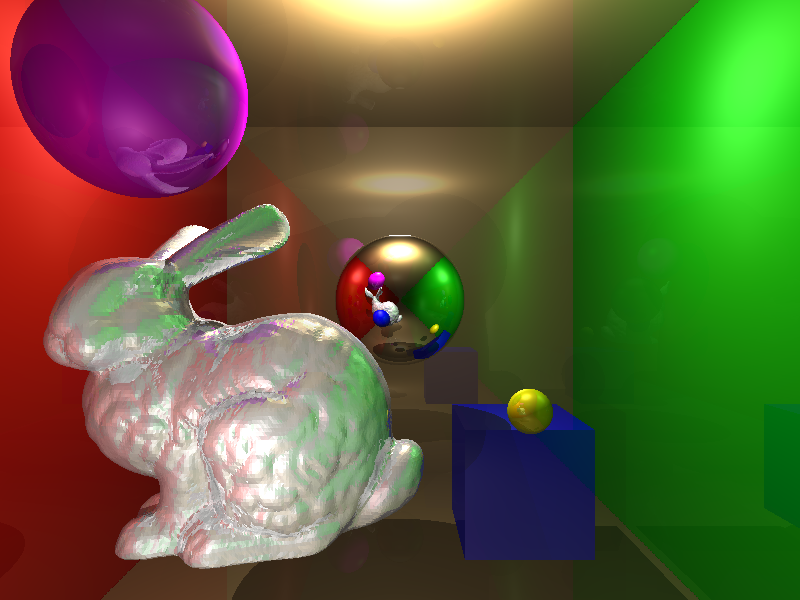
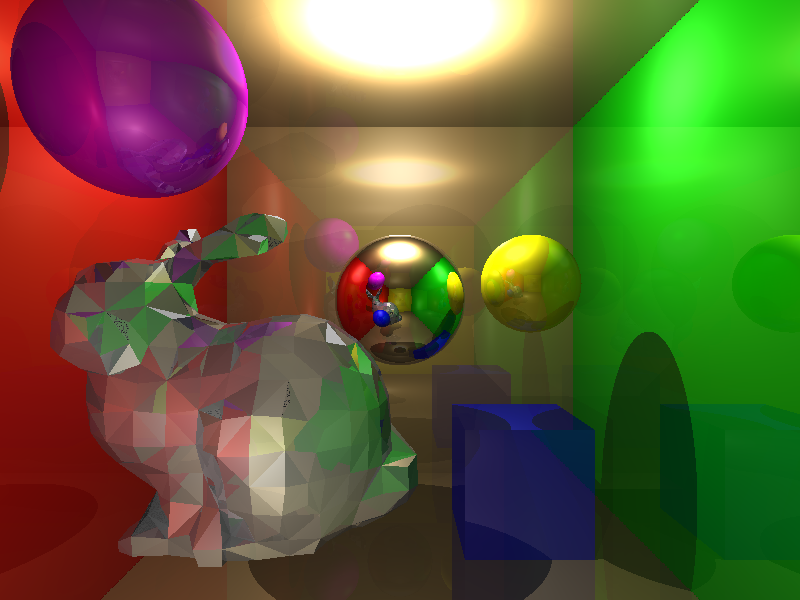
new scene + Plane constructor

diff --git a/raytracer.cpp b/raytracer.cpp
@@ -358,7 +358,7 @@ struct Material {
     double ks;  // specular reflectance
     double specRefExp; // specular-reflection exponent
 
-    Material(const Color& color, double ka=0.15, double kd=0.7, double ks=0.3, double specRefExp=8)
+    Material(const Color& color, double ka=0.2, double kd=0.7, double ks=0.2, double specRefExp=8)
             : color(color), ka(ka), kd(kd), ks(ks), specRefExp(specRefExp) {}
     Material() : color{} {}
 };
@@ -393,6 +393,17 @@ struct Plane : public Object {
         this->b = pn[1];
         this->c = pn[2];
     }
+
+    Plane(double a, double b, double c, double d, const Material& material)
+            : a(a), b(b), c(c), d(d), Object(material) {
+        // normalize normal vector
+        Vec3d pn{a, b, c};
+        pn.normalize();
+        this->a = pn[0];
+        this->b = pn[1];
+        this->c = pn[2];
+    }
+
 
     Plane(Vec3d normal, double dist, const Color& color) : d{dist}, Object{color} {
         normal.normalize(); // make sure normal is normalized
@@ -568,7 +579,7 @@ struct Model : Object {
     static shared_ptr<Model> load_ply(const string& fname) {
         cout << "... loading model: " << fname << endl;
         shared_ptr<Model> model{make_shared<Model>()};
-        Color color{Color::white()};
+        Color color{Color::gray()};
 
         ifstream ifs{fname};
         if (!ifs.is_open())
@@ -1066,15 +1077,15 @@ colorize_image_tile(cv::Mat img, int num, int x_start, int y_start, int pW, int 
 
 void
 create_scene(vector<shared_ptr<Object>>& objects, vector<Light>& lights) {
-    lights.emplace_back(Light{Vec3d{0, 3, -7.5}, Color::white() * 20});
+    lights.emplace_back(Light{Vec3d{0, 3, -7.5}, Color::white() * 3});
 //    lights.emplace_back(Light{Vec3d{0, 8, -9}, Color::white()*0.5});
-    lights.emplace_back(Light{Vec3d{-1, -1, -1}, Color::white() * 7});
+    lights.emplace_back(Light{Vec3d{-1, -1, -1}, Color::white() * 10});
 //    lights.emplace_back(Light{Vec3d{5, -5, -2}, Color::white()*0.5});
 //    lights.emplace_back(Light{Vec{-30,-20,1}});
 
     objects.push_back(make_shared<Sphere>(Vec3d{0, 0, -8}, 1, Material(Color::red(), 0, 0, 1, 16)));
 //    objects.push_back(make_shared<Sphere>(Vec{10,0,-20}, 5, scolor));
-    objects.push_back(make_shared<Sphere>(Vec3d{1.75, -1.5, -7}, 0.3, Color{1, 1, 0}));
+    objects.push_back(make_shared<Sphere>(Vec3d{2, 0.25, -8}, 0.75, Material{Color{1, 1, 0}, 0.2, 0.7, 0}));
 
     objects.push_back(make_shared<Sphere>(Vec3d{-1, -1, -6}, 0.5, Color::blue()));
     objects.push_back(make_shared<Sphere>(Vec3d{80, -6, -150}, 5, Color{0, 0, 1}));
@@ -1109,10 +1120,10 @@ create_scene(vector<shared_ptr<Object>>& objects, vector<Light>& lights) {
 
 
     // planes
-    const int box_len{5};
+    const int box_len{4};
     // back
     const Color wall_color{192.0 / 255, 155.0 / 255, 94.0 / 255};
-    objects.push_back(make_shared<Plane>(0, 0, 1, box_len + 10, wall_color));
+    objects.push_back(make_shared<Plane>(0, 0, 1, box_len + 8, wall_color));
     // left
     objects.push_back(make_shared<Plane>(1, 0, 0, box_len, Color::red()));
     // right
@@ -1121,6 +1132,8 @@ create_scene(vector<shared_ptr<Object>>& objects, vector<Light>& lights) {
     objects.push_back(make_shared<Plane>(0, 1, 0, box_len, wall_color));
     // top
     objects.push_back(make_shared<Plane>(0, -1, 0, box_len, wall_color));
+    // behind camera
+    objects.push_back(make_shared<Plane>(0, 0, -1, box_len, Color(1,1,0)));
 
 //    s.radius = 10;
 
